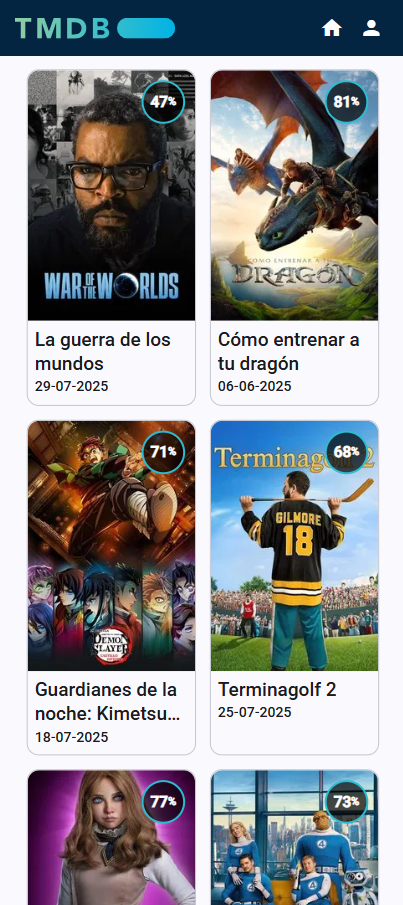
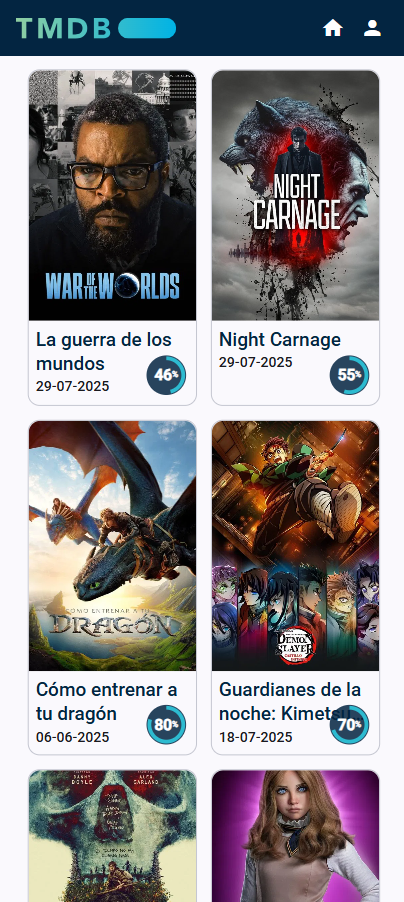
feat: Ex4 - improve design #5

diff --git a/README.md b/README.md
@@ -8,6 +8,11 @@
     - [1. Listado de películas](#1-listado-de-películas)
     - [2. Detalles de la película](#2-detalles-de-la-película)
     - [3. Carga de más películas](#3-carga-de-más-películas)
+    - [4. Mejora del diseño](#4-mejora-del-diseño)
+      - [4.1 Listado de películas](#41-listado-de-películas)
+      - [4.2 Detalles de película](#42-detalles-de-película)
+        - [4.2.1 Detalles de película en dispositivos móviles](#421-detalles-de-película-en-dispositivos-móviles)
+        - [4.2.2 Detalles de película en pantalla grande](#422-detalles-de-película-en-pantalla-grande)
   - [💻Tecnologías Utilizadas](#tecnologías-utilizadas)
   - [📋Requisitos](#requisitos)
   - [🛠Instalación](#instalación)
@@ -59,6 +64,43 @@ Se puede acceder a los detalles de cada película
 - Carga automática de películas extra al llegar al final de la página.
 
 <img src="public/ex3.png" width="400" style="margin-top: 1rem; margin-bottom: 1rem;">
+
+### 4. Mejora del diseño
+
+- Separación en componentes de:
+  - Lista de películas.
+  - Lista de actores.
+  - Valoración película.
+- Mejora del menú.
+- Rediseño del listado de películas.
+- Rediseño de los detalles de la película.
+- Diseño responsive para pantallas grandes.
+
+#### 4.1 Listado de películas
+
+<div style="display: flex; flex-wrap: wrap; gap: 20px; align-items: flex-start; margin-top: 1rem;">
+  <img src="public/ex4.png" width="500" style="vertical-align: top;">
+  <img src="public/ex4-mobile.png" width="150" style="vertical-align: top;">
+</div>
+
+#### 4.2 Detalles de película
+
+##### 4.2.1 Detalles de película en dispositivos móviles
+
+<div style="display: flex; flex-wrap: wrap; gap: 20px; align-items: flex-start; margin-top: 1rem;">
+  <img src="public/ex4-movie-mobile.png" width="150" style="vertical-align: top;">
+  <img src="public/ex4-movie-cast-mobile.png" width="150" style="vertical-align: top;">
+  <img src="public/ex4-movie-similar-mobile.png" width="150" style="vertical-align: top;">
+  <img src="public/ex4-movie-recommended-mobile.png" width="150" style="vertical-align: top;">
+</div>
+
+##### 4.2.2 Detalles de película en pantalla grande
+
+<div style="display: flex; flex-wrap: wrap; gap: 20px; align-items: flex-start; margin-top: 1rem;">
+  <img src="public/ex4-movie.png" width="200" style="vertical-align: top;">
+  <img src="public/ex4-movie-similar.png" width="200" style="vertical-align: top;">
+  <img src="public/ex4-movie-recommended.png" width="200" style="vertical-align: top;">
+</div>
 
 ## 💻Tecnologías Utilizadas
 
